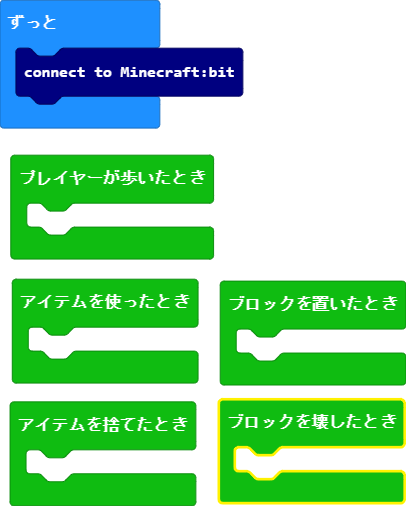
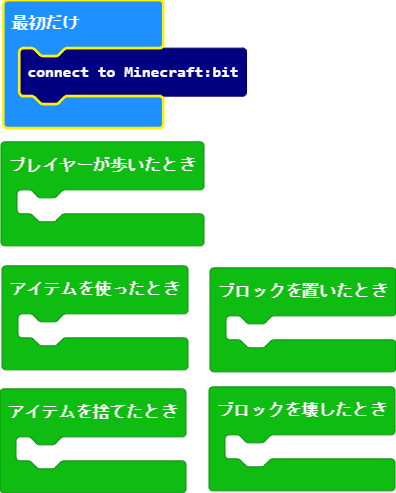
更新 pxt.json, main.blocks, main.ts

Changed region(s): [[0.0, 0.0, 1.0, 1.0]]

diff --git a/main.ts b/main.ts
@@ -13,6 +13,4 @@ Minecraftbit.onTravelled(function () {
 Minecraftbit.onItemUsed(function () {
 	
 })
-basic.forever(function () {
-    Minecraftbit.connect()
-})
+Minecraftbit.connect()
